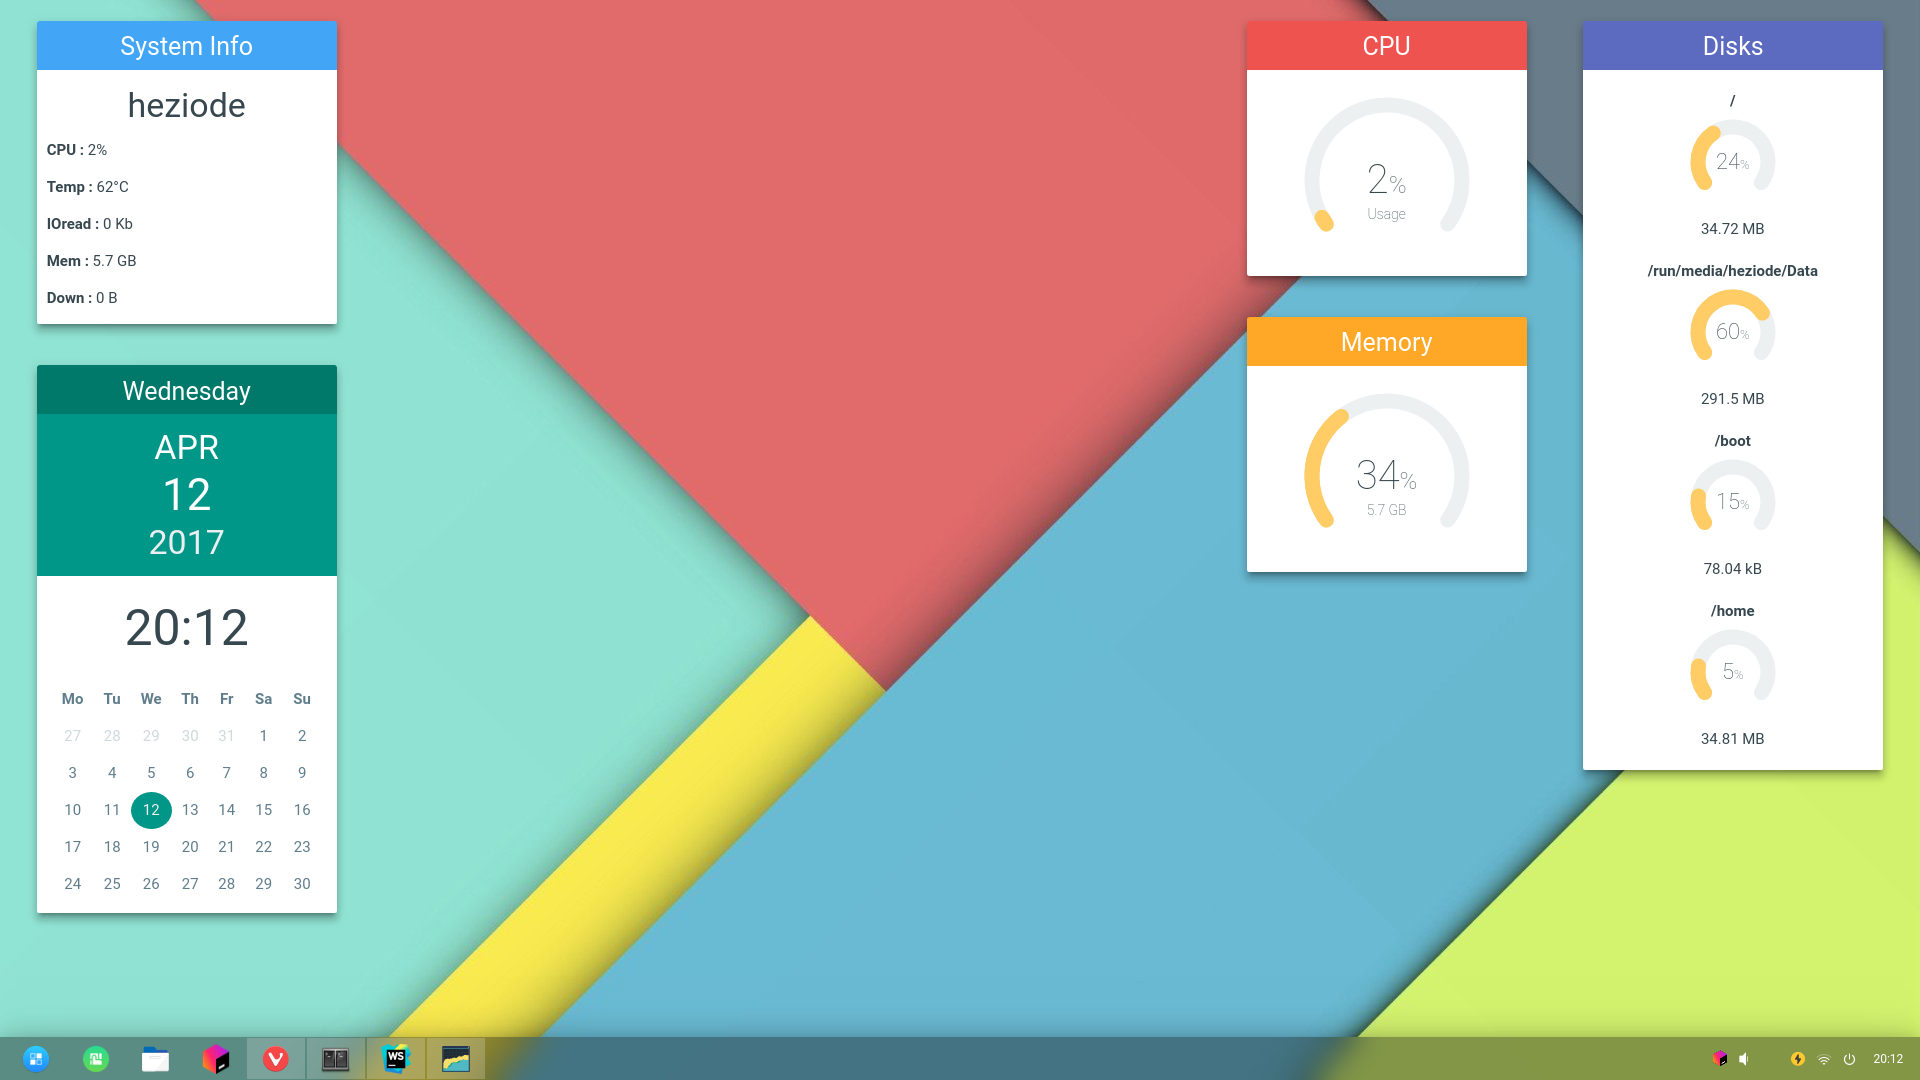
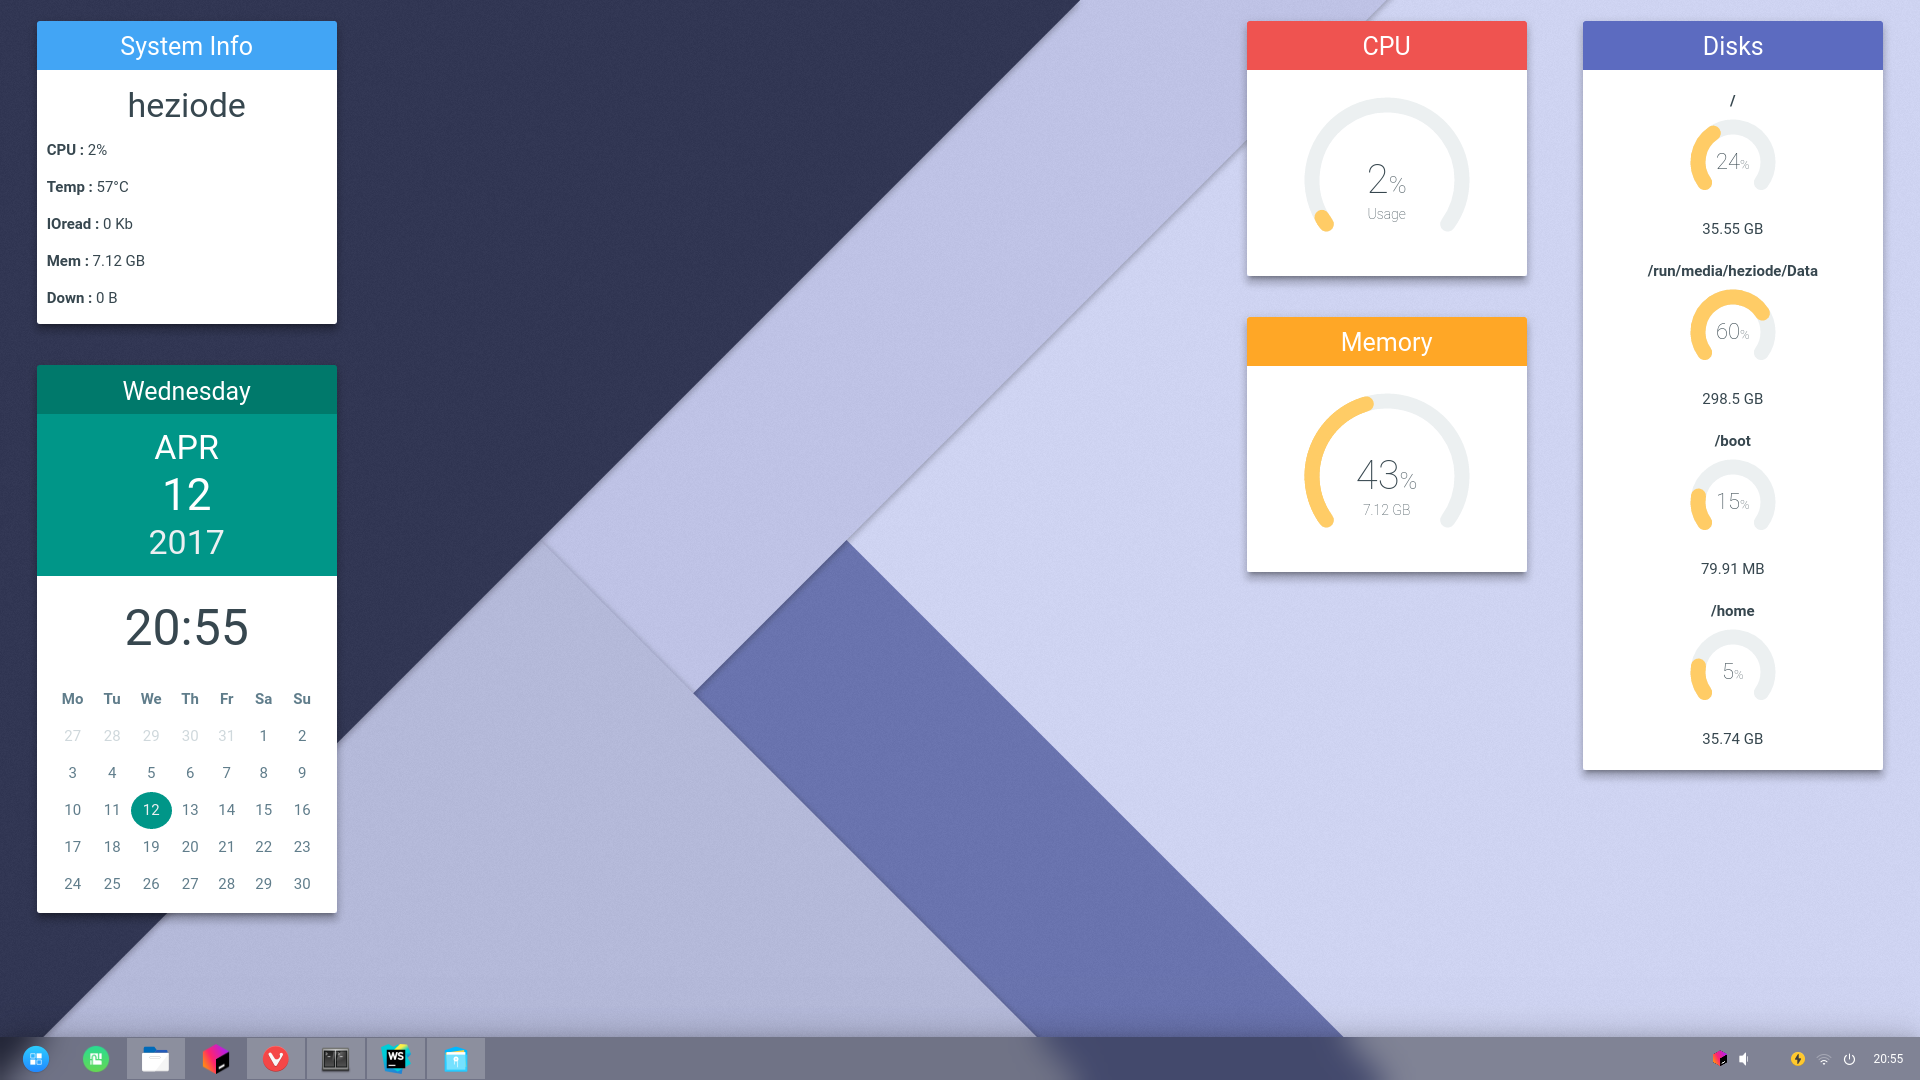
master: Fix problem with disk size

diff --git a/index.html b/index.html
@@ -112,7 +112,7 @@
                                     </td>
                                 </tr>
                                 <tr class="tr-gauge">
-                                    <td class="cell-gauge">{{part.used | byteSize:true}}</td>
+                                    <td class="cell-gauge">{{part.used * 1024 | byteSize:true}}</td>
                                 </tr>
                             </table>
                         </div>

diff --git a/app.js b/app.js
@@ -117,6 +117,7 @@ app.filter('duration', function() {
 */
 app.filter('byteSize', function() {
 	return function(value, forceZero) {
+		value = parseInt(value);
 		if (!value || !isFinite(value)) return (forceZero ? '0 B' : null);
 
 		var exponent;

diff --git a/README.md b/README.md
@@ -3,3 +3,5 @@
 A simple theme for [Conkie](https://github.com/hash-bang/Conkie) using AngularJS + Angular-gauge + Materialize.
 
 ![Screenshot](https://raw.githubusercontent.com/Heziode/conkie-theme-material/master/screenshot.png)
+
+Wallpaper : [Material Wallpaper 4K by Puscifer91](http://puscifer91.deviantart.com/art/Material-Wallpaper-4K-502770719)
